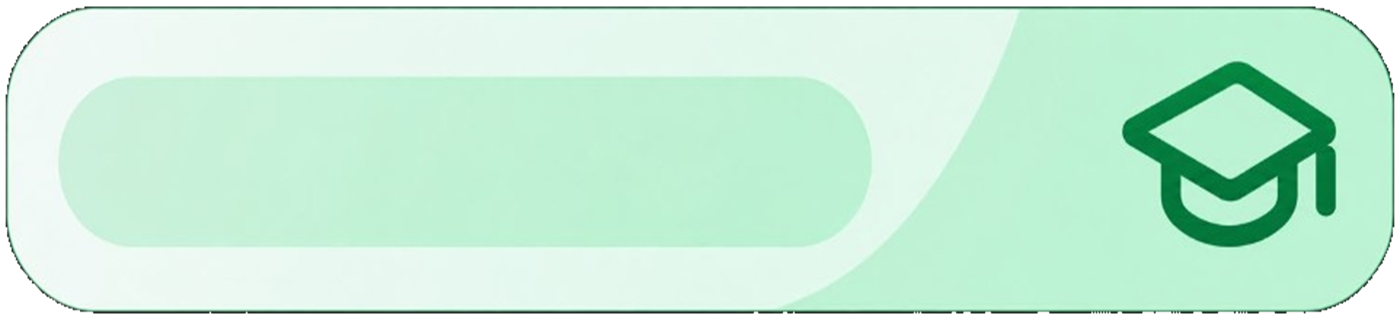
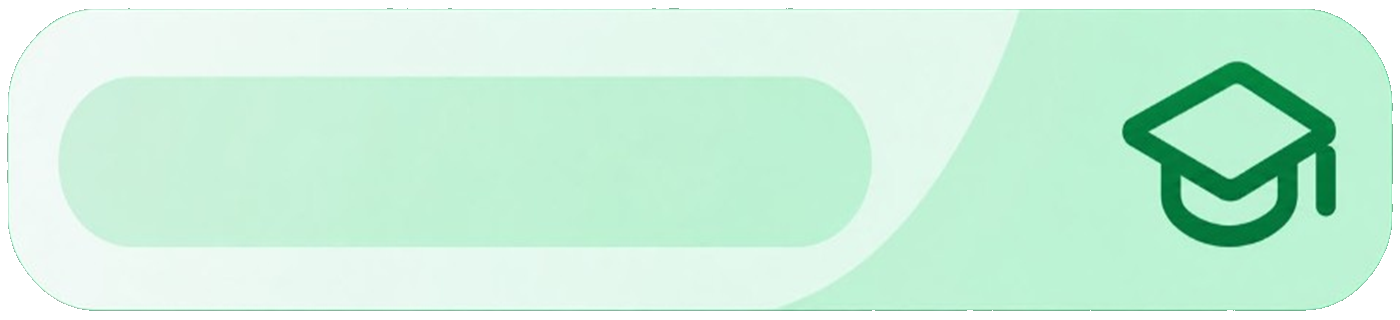
Iguala o balão da capa com foto ao oval dos outros cards e tira o contorno escuro do Treinamentos.

diff --git a/nexus-main/src/components/journal/JournalVisual.tsx b/nexus-main/src/components/journal/JournalVisual.tsx
@@ -53,21 +53,23 @@ const cardArt: Partial<Record<JournalCategory, { src: string; label: string }>> 
   social: { src: '/jornal/cards/social.png?v=2', label: 'left-[4%] top-[27%] h-[46%] w-[40%]' },
   processos: { src: '/jornal/cards/processos.png?v=2', label: 'left-[4%] top-[26%] h-[46%] w-[38%]' },
   urgente: { src: '/jornal/cards/urgente.png?v=2', label: 'left-[7%] top-[26%] h-[48%] w-[37%]' },
-  treinamentos: { src: '/jornal/cards/treinamentos.png', label: 'left-[6%] top-[25%] h-[50%] w-[52%]' },
+  treinamentos: { src: '/jornal/cards/treinamentos.png?v=3', label: 'left-[4%] top-[24%] h-[52%] w-[56%]' },
 };
 
 export const JournalCover: FC<{ article: Pick<JournalArticle, 'title' | 'content' | 'category' | 'cover' | 'media'>; compact?: boolean }> = ({ article, compact }) => {
   const photo = articleCover(article);
   const tone = categoryTone[article.category];
-  if (photo) {
+  const art = cardArt[article.category];
+  if (photo && art) {
     return (
-      <div className={cn('relative overflow-hidden rounded-[18px]', compact ? 'h-[58px]' : 'aspect-[1400/320]')}>
-        <img src={photo} alt="" className="h-full w-full object-cover" />
-        <JournalBadge category={article.category} onHeader className={cn('absolute top-2.5 left-2.5', compact && 'top-1.5 left-1.5 px-2 py-1 text-[10px]')} />
+      <div className="relative overflow-hidden rounded-full">
+        <img src={photo} alt="" className="block aspect-[1400/320] h-auto w-full object-cover" />
+        <span className={cn('absolute flex items-center justify-center rounded-full bg-white text-center font-semibold leading-none', art.label, tone.badgeText, compact ? 'text-[8px]' : 'text-[13px]')}>
+          {categoryLabel(article.category)}
+        </span>
       </div>
     );
   }
-  const art = cardArt[article.category];
   if (art) {
     return (
       <div className="relative">
